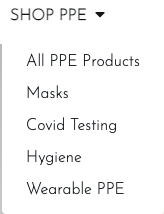
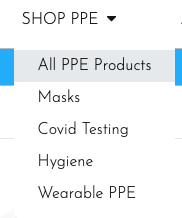
Have added to section 2 of the readme for About, Covid Numbers and contact us pages

diff --git a/products/templates/products/product_details.html b/products/templates/products/product_details.html
@@ -63,15 +63,7 @@
 
 
 
-        <!-- Add to wishlist - MAY NOT USE THIS FEATURE -->
-        {% if user.is_authenticated %}
-        <span class="horiz-bar">| </span>Add to wishlist:
-          <!-- Full heart -->
-          <a href="{% url 'add_to_wishlist' product.id %}" class="btn px-0 py-0" role="button">
-            <i class="fas fa-heart"></i>
-          </a>
-        <span class="horiz-bar"> |</span>
-        {% endif %}
+
 
 
 
@@ -180,3 +172,14 @@
   {{ block.super }}
   {% include 'products/includes/quantity_input_script.html' %}
   {% endblock %}
+
+
+  <!-- Add to wishlist - MAY NOT USE THIS FEATURE -->
+  {% if user.is_authenticated %}
+  <span class="horiz-bar">| </span>Add to wishlist:
+  <!-- Full heart -->
+  <a href="{% url 'add_to_wishlist' product.id %}" class="btn px-0 py-0" role="button">
+    <i class="fas fa-heart"></i>
+  </a>
+  <span class="horiz-bar"> |</span>
+  {% endif %}

diff --git a/contact_us/views.py b/contact_us/views.py
@@ -4,38 +4,16 @@ from .models import ContactMessages
 from .forms import ContactMessagesForm
 from profiles.models import UserProfile
 
-# Original Code 
-
-# def contact_us(request):
-#     # View that returns contact us page
-    
-#     messages_form = ContactMessagesForm()
-#     # profile = UserProfile.objects.get(user=request.user)
-
-#     if request.method == 'POST':
-#         messages_form = ContactMessagesForm(ContactMessages)
-#         if messages_form.is_valid():
-#             messages_form.save()
-#             messages.success(request, "Your message to us has been successfully sent")
-#             return redirect(reverse('home'))
-#         else:
-#             messages.error(request, "There was an error sending your message, please try to send it again")
-#             return redirect(reverse('home'))
-        
-#     template = 'contact_us/contact_us.html'
-#     context = {
-#         'form': messages_form
-#     }
-
-#     return render(request, template, context=context)
-
 
 def contact_us(request):
     # View that returns contact us page
-    
-    # messages_form = ContactMessagesForm()
 
-    messages_form = ContactMessagesForm(initial={'sender': UserProfile.objects.get(user=request.user)})
+    # If user is authenticated then the priority message will show
+    if request.user.is_authenticated:
+        messages_form = ContactMessagesForm(initial={'sender': UserProfile.objects.get(user=request.user)})
+    # If user is unregistered then they form will not show
+    else:
+        messages_form = ContactMessagesForm()
     
     if request.method == 'POST':
         messages_form = ContactMessagesForm(request.POST)
@@ -43,17 +21,8 @@ def contact_us(request):
         print(sender)
 
         if messages_form.is_valid():
-            # sender = messages_form.cleaned_data['sender']
-            # sender = UserProfile.objects.get(user=request.user)
-            # subject = messages_form.cleaned_data['subject']
-            # message = messages_form.cleaned_data['message']
-            # contact_email = messages_form.cleaned_data['contact_email']
             try:
                 print("ENTERING TRY BLOCK")
-                # messages_form.save(commit=False)
-                # print("SAVING MESSAGE FROM COMMIT FALSE")
-                # messages_form.sender = sender
-                # print("ADD SENDER TO FORM")
                 messages_form.save()
                 print("SAVING TO DB")
                 messages.success(request, "Your message to us has been successfully sent. We will be in contact as soon as possible")
@@ -73,69 +42,3 @@ def contact_us(request):
     }
 
     return render(request, template, context=context)
-
-
-
-
-
-
-
-
-
-
-
-
-
-
-
-
-
-# def contact_us(request):
-#     # View that returns contact us page
-
-#     messages_form = ContactMessagesForm()
-#     profile = UserProfile.objects.get(user=request.user)
-
-#     if request.method == "POST":
-#         # if request.user.is_authenticated:
-#         profile = UserProfile.objects.get(user=request.user)
-#         form_data = {
-#             "sender": "Sent By",
-#             "subject": request.POST["subject"],
-#             "message": request.POST["message"],
-#             "contact_email": request.POST["contact_email"],
-#             "date": request.POST["date"],
-#         }
-#         messages_form = ContactMessagesForm(form_data)
-
-#     if messages_form.is_valid():
-#         messages_form.save()
-#         messages.success(request,
-#                          'Your message to us has been successfully sent'
-#                          )
-#         return redirect(reverse('home'))
-#     # else:
-#     #     messages.error(request,
-#     #                    'There was an error sending your message, please try to send it again'
-#     #                    )
-
-#     #     return redirect(reverse('home'))
-
-#     template = 'contact_us/contact_us.html'
-#     context = {'form': messages_form}
-
-#     return render(request, template, context=context)
-
-
-
-    # if request.method == 'POST':
-    #     if request.user.is_authenticated:
-    #         profile = UserProfile.objects.get(user=request.user)
-
-    # form_data = {
-    # 'sender': 'Sent By',
-    #             'subject': request.POST['subject'],
-    #             'message': request.POST['message'],
-    #             'contact_email': request.POST['contact_email'],
-    #             'date': request.POST['date'],
-    #             'sender': profile,}messages_form = ContactMessagesForm(form_data)if messages_form.is_valid():

diff --git a/test-code.py b/test-code.py
@@ -94,3 +94,77 @@ def contact_us(request):
         'form': messages_form
     }
     return render(request, template, context=context)
+
+
+
+    # This code posts to the django admin ok 
+    def contact_us(request):
+    # View that returns contact us page
+    
+    # messages_form = ContactMessagesForm()
+
+    messages_form = ContactMessagesForm(initial={'sender': UserProfile.objects.get(user=request.user)})
+    
+    if request.method == 'POST':
+        messages_form = ContactMessagesForm(request.POST)
+        sender = UserProfile.objects.get(user=request.user)
+        print(sender)
+
+        if messages_form.is_valid():
+            # sender = messages_form.cleaned_data['sender']
+            # sender = UserProfile.objects.get(user=request.user)
+            # subject = messages_form.cleaned_data['subject']
+            # message = messages_form.cleaned_data['message']
+            # contact_email = messages_form.cleaned_data['contact_email']
+            try:
+                print("ENTERING TRY BLOCK")
+                # messages_form.save(commit=False)
+                # print("SAVING MESSAGE FROM COMMIT FALSE")
+                # messages_form.sender = sender
+                # print("ADD SENDER TO FORM")
+                messages_form.save()
+                print("SAVING TO DB")
+                messages.success(request, "Your message to us has been successfully sent. We will be in contact as soon as possible")
+                return redirect(reverse('home'))
+            except Exception as e:
+                print("Error in try except block: ", e) # Edited by Jo
+                messages.error(request, "There was an error sending your message, please try to send it again")
+                return redirect(reverse('contact_us'))
+        else:
+            print("Error from is form valid else block")
+            messages.error(request, "There was an error sending your message, please try to send it again")
+            return redirect(reverse('contact_us'))
+        
+    template = 'contact_us/contact_us.html'
+    context = {
+        'form': messages_form
+    }
+
+    return render(request, template, context=context)
+
+
+
+    # Original Code 
+
+# def contact_us(request):
+#     # View that returns contact us page
+    
+#     messages_form = ContactMessagesForm()
+#     # profile = UserProfile.objects.get(user=request.user)
+
+#     if request.method == 'POST':
+#         messages_form = ContactMessagesForm(ContactMessages)
+#         if messages_form.is_valid():
+#             messages_form.save()
+#             messages.success(request, "Your message to us has been successfully sent")
+#             return redirect(reverse('home'))
+#         else:
+#             messages.error(request, "There was an error sending your message, please try to send it again")
+#             return redirect(reverse('home'))
+        
+#     template = 'contact_us/contact_us.html'
+#     context = {
+#         'form': messages_form
+#     }
+
+#     return render(request, template, context=context)

diff --git a/README.md b/README.md
@@ -185,12 +185,100 @@ INSERT COLOUR PALLETTE HERE
 
 ![Image of Navbar on mobile](media/readme_images/navbar_opened.png)
 
+
+#### **2. - The Shop Page** ####
+
+* Users to the site have the ability to shop in a number of different ways ont he site. In the "Shop PPE" dropdown menu they will see 5 different categories of items the store sells. 
+
+>All PPE Products
+>Masks
+>Covid Testing
+>Hygiene
+>Wearable PPE
+
+![Image of shop ppe page](media/readme_images/shop_dropdown.png)
+
+* If they select "All PPE Products" they will be brought ot the products page where they can see all of the items available in the store. 
+
+![Image of all products](media/readme_images/all_products.png)
+
+* When the user clicks on an item they are thinking of purchasing they will be brought to the product details page
+
+
+
+#### **2. - About Us Page** ####
+
+* This is a standard about us page you would expect to find on any business site. It has an image of 2 medial workers and a bit of text detailing about the company.
+
+![Image of about us page](media/readme_images/django_user_message2.png)
+
+
+#### **2. - Covid Numbers Page** ####
+
+* One of the features of the site is to provide users with detailed up to the minute covid-19 data and stats. Again to drive people to register this data is kept behind a registered users wall. Users are informed that to view the data they only need to register on the site and don't need to purchase any items. (Screenshot below) 
+
+![Image of about us page](media/readme_images/covid_numbers_1.png)
+
+* If a user registers and comes back to the Covid Numbers page they will see the following map.
+
+![Image of about us page](media/readme_images/covid_numbers_2.png)
+
+* This map offers users a huge wealth of information that is updated daily. Users can view the latest charts, maps, tables, sources and are free to download some the data. Users can use this page to see covid stats on a global, regional and country by country basis. Again by incorporating this feature into the site you are firstly making users register to see the data, and secondly you are providing them with a reason to come back and visit the site on a regular basis. The goal would be to convert some of these regular visitors into customers. If covid numbers in their country are increasing or at a high level then ths will be enough of a prompt to encourage users to spend money on the site. 
+
+#### **2. - Contact Us Registered Messages** ####
+
+* One of the pass criteria for this project was to "Create at least 1 form with validation that will allow users to create records in the database (In addition ot the authentication mechanism"). 
+
+* The feature i have chosen to meet this requirement is a priority messaging service. One of the main goals of any e-commerce site is to get as many people as possible signed up and spending money. A site should always push for users to sign up, even if they don't buy something on the first visit because it still allows the site owner to email market to these registered users at a later date. 
+* If an unregistered user logs onto the site and navigates to the contact us page, they will see the company contact details as you would normally expect, below that they will see a message explaining about the registered users messages function and also a link for customers to sign up (screenshot below) 
+
+![Image of registered messages user prompt](media/readme_images/user_messages_1.png)
+
+* Once a registered/logged in user comes to the site on the contact us page they will see the message box automatically displayed. 
+
+![Image of registered messages user prompt](media/readme_images/user_messages_2.png)
+
+On the form the logged in user will see the following visible fields:
+> Message From (Required)<br>
+> Message Subject (Required)<br>
+> Message Text Box (Required)<br>
+> Users email (None required)<br>
+
+The model for this form can be found below:
+
+`class ContactMessages(models.Model):`<br>
+    `sender = models.ForeignKey(UserProfile, on_delete=models.CASCADE, null=True, blank=True)`<br>
+    `subject = models.CharField(max_length=80, null=False, blank=False)`<br>
+    `message = models.TextField(max_length=3000, null=False, blank=False)`<br>
+    `date = models.DateTimeField(auto_now_add=True, editable=False)`<br>
+    `contact_email = models.EmailField(max_length=254, null=True, blank=True)`<br>
+    <br>
+    `# This will correct the spelling in Django admin to the correct plural spelling`<br>
+    `class Meta:`<br>
+        `verbose_name_plural = 'Contact Messages'`<br>
+    <br>
+    `def __str__(self):`<br>
+        `return self.subject`<br>
+
+* The `sender` (Message From:) field is automatically generated depending on which user is logged in to the site. I have also made this input field disabled so the user can not adjust or alter it, this is to ensure that every message can be attached to a specific registered site user. For a better user experience the disabled feature also stops the user clicking on the name and a highlight box appearing and creating the impression the user can adjust the field. 
+
+* The `subject`, `message` and `email` field are self explanatory. I also have a `date & time` field which isn't displayed to the user.
+* This messaging service allows users to create records (messages) in the database as well as providing all of the important information a site owner needs. In the django admin panel how the messages are displayed can be seen below: 
+
+![Image of registered messages in Django](media/readme_images/django_user_message.png)
+
+<br>
+
+![Image of registered messages in Django](media/readme_images/django_user_message2.png)
+
+This allows the site owner to keep a record of messages from registered users. 
+
+
 #### **- Toasts** ####
 
 * To provide for a better user experience on the site i have used Bootstrap Toasts to provide users with feedback when they commit a specific action, adding an item to the cart for example. I have tried out several different toasts that incorporate images, cart totals, cart summaries and free shipping points. After trying all of these out on the site i decided i would keep the toast messaging to a small summary of each user action.
 
 * Each toast has also been colour coded for each category of success, error, warning and info so the user will know at a glance if their action has been successful or not. 
-
 </details>
 <hr>
 
